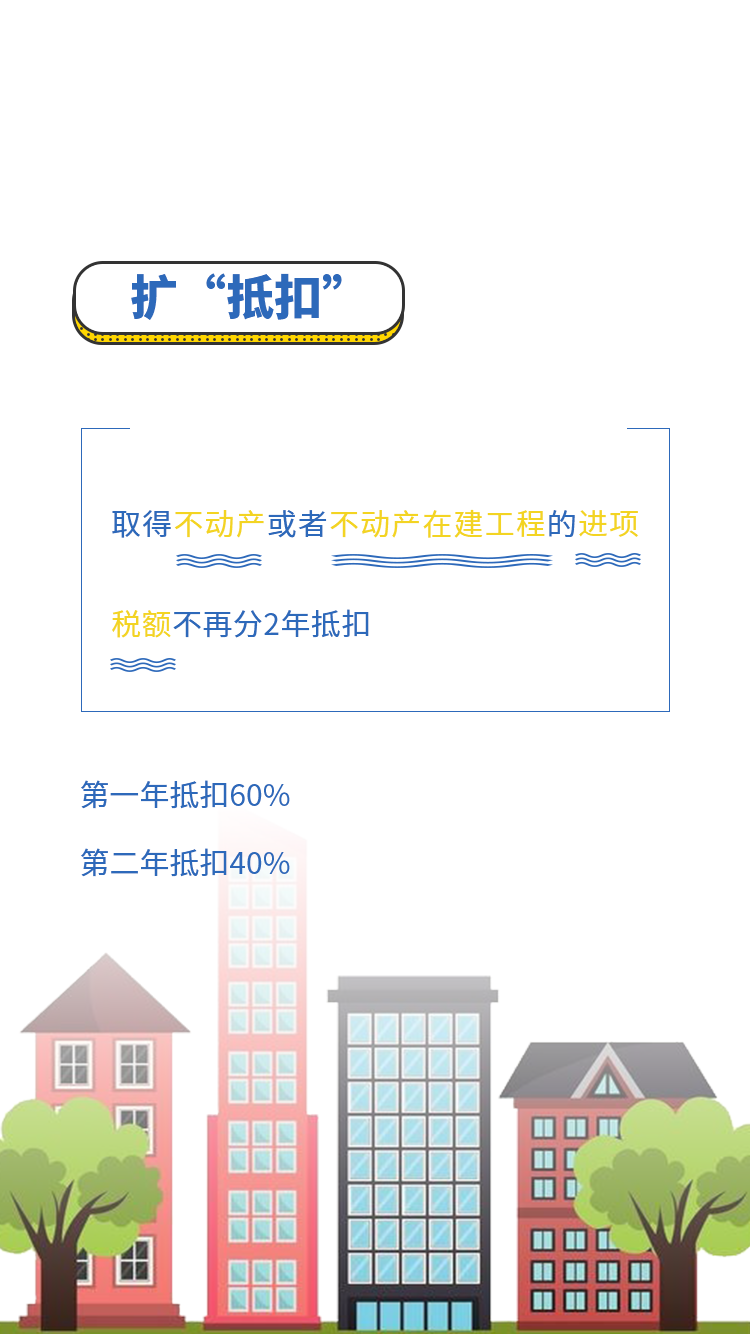
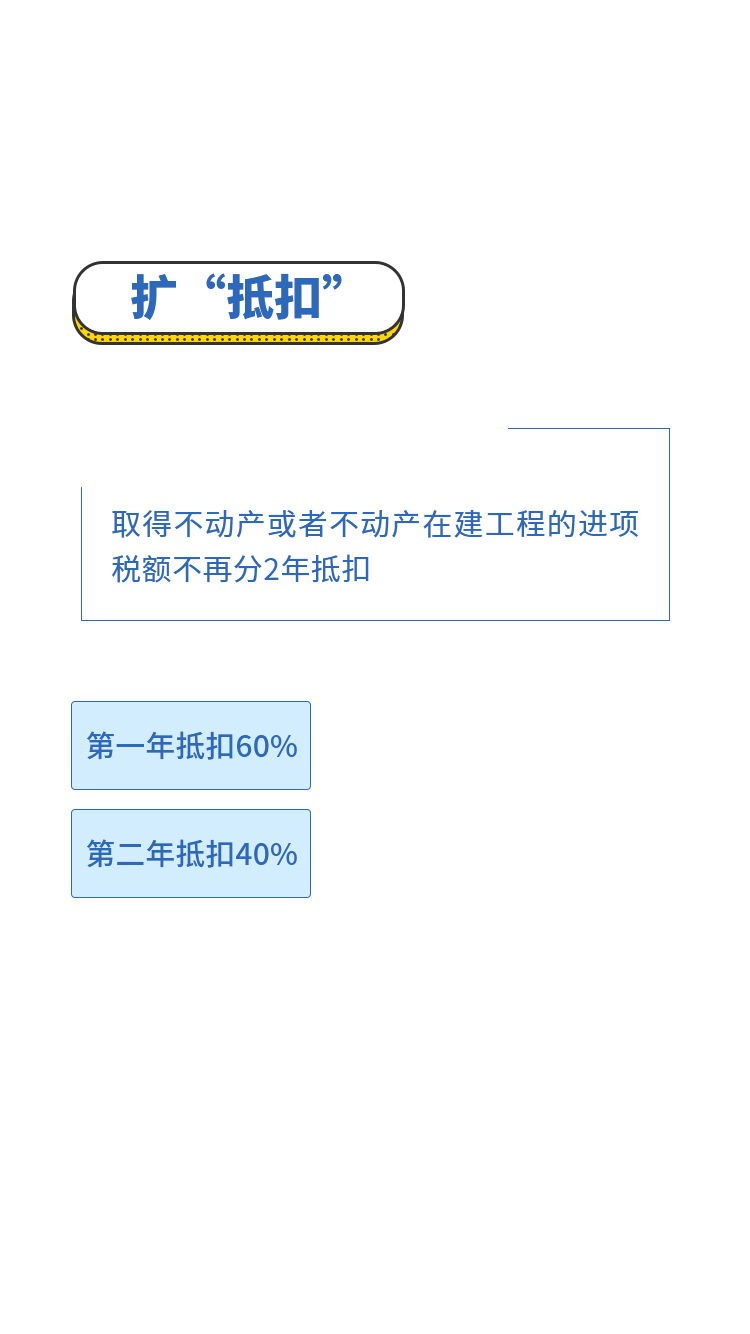
静态ok

Changed region(s): [[0.0, 0.3688, 1.0, 1.0], [0.7667, 0.3688, 0.8587, 0.4303]]

diff --git a/src/App.vue b/src/App.vue
@@ -31,9 +31,9 @@
         <section  class="MySlider2">
           <div class="bounce" style="height:100vh; display: flex;flex-direction: column;">
             <img src="./assets/TaxBureau/cutChart/b/backUp.png" width="100%"/>
-            <img src="./assets/TaxBureau/cutChart/b/icon1.png" width="4%" style="margin-left: 130px; margin-top: 160px"/>
-            <img src="./assets/TaxBureau/cutChart/b/icon2.png" width="4%" style="margin-left: 130px; margin-top: 55px"/>
-            <img src="./assets/TaxBureau/cutChart/b/icon3.png" width="4%" style="margin-left: 130px; margin-top: 55px"/>
+            <img src="./assets/TaxBureau/cutChart/b/icon1.png" width="4%" style="margin-left: 33%; margin-top: 44%"/>
+            <img src="./assets/TaxBureau/cutChart/b/icon2.png" width="4%" style="margin-left: 33%; margin-top: 13%"/>
+            <img src="./assets/TaxBureau/cutChart/b/icon3.png" width="4%" style="margin-left: 33%; margin-top: 15%"/>
             <img src="./assets/TaxBureau/cutChart/b/person.png" width="100vw" style="position: absolute; bottom: 0"/>
             <div style="flex:1;" >&nbsp;</div>
             <img src="./assets/TaxBureau/cutChart/b/backDown.png" width="100%" style="margin-bottom: 0px"/>
@@ -47,8 +47,8 @@
             <img src="./assets/TaxBureau/cutChart/c/backUp.png" width="100%"/>
             <img src="./assets/TaxBureau/cutChart/c/backBlue.png" width="40%" style="margin-left: 40px; margin-top: 74px"/>
             <div style="margin-top: -25px; margin-left: 91px; font-weight: bold; font-size: 15px; color: #2d69ba">降税率</div>
-            <img src="./assets/TaxBureau/cutChart/c/arrow.png" width="14.8%" style="margin-top: 123px; margin-left: 199px;"/>
-            <img src="./assets/TaxBureau/cutChart/c/arrow.png" width="14.8%" style="margin-top: 30px; margin-left: 199px;"/>
+            <img src="./assets/TaxBureau/cutChart/c/arrow.png" width="14.8%" style="margin-top: 32%; margin-left: 53%;"/>
+            <img src="./assets/TaxBureau/cutChart/c/arrow.png" width="14.8%" style="margin-top: 8%; margin-left: 53%;"/>
             <img src="./assets/TaxBureau/cutChart/c/backDown.png" width="75%" style="margin-top: 118px; margin-left: 94px;"/>
             <img src="./assets/TaxBureau/cutChart/c/person.png" width="21.07%" style="margin-top: -143px; margin-left: 257px;" />
           </div>
@@ -61,8 +61,8 @@
             <img src="./assets/TaxBureau/cutChart/d/backUp.png" width="100%"/>
             <img src="./assets/TaxBureau/cutChart/d/back_blue.png" width="40%" style="margin-left: 40px; margin-top: 74px"/>
             <div style="margin-top: -28px; margin-left: 85px; font-weight: bold; font-size: 15px; color: #2d69ba">降扣除税</div>
-            <img src="./assets/TaxBureau/cutChart/d/arrow.png" width="14.8%" style="margin-left: 200px; margin-top: 153px"/>
-            <img src="./assets/TaxBureau/cutChart/d/car.png" width="40.4%" style="margin-left: 124px; margin-top: 145px"/>
+            <img src="./assets/TaxBureau/cutChart/d/arrow.png" width="14.8%" style="margin-left: 53%; margin-top: 40%"/>
+            <img src="./assets/TaxBureau/cutChart/d/car.png" width="40.4%" style="margin-left: 33%; margin-top: 39%"/>
           </div>
         </section>
       </swiper-slide>
@@ -72,8 +72,8 @@
             <img src="./assets/TaxBureau/cutChart/e/backUp.png" width="100%"/>
             <img src="./assets/TaxBureau/cutChart/e/backBlue.png" width="56.4%" style="margin-left: 40px; margin-top: 74px"/>
             <div style="margin-top: -28px; margin-left: 85px; font-weight: bold; font-size: 15px; color: #2d69ba">同步调整出口退税率</div>
-            <img src="./assets/TaxBureau/cutChart/e/arrow.png"  width="14.8%" style="margin-left: 200px; margin-top: 170px"/>
-            <img src="./assets/TaxBureau/cutChart/e/arrow.png"  width="14.8%" style="margin-left: 200px; margin-top: 30px"/>
+            <img src="./assets/TaxBureau/cutChart/e/arrow.png"  width="14.8%" style="margin-left: 53%; margin-top: 45%"/>
+            <img src="./assets/TaxBureau/cutChart/e/arrow.png"  width="14.8%" style="margin-left: 53%; margin-top: 8%"/>
           </div>
         </section>
       </swiper-slide>
@@ -84,8 +84,8 @@
             <img src="./assets/TaxBureau/cutChart/f/backBlue.png" width="56.4%" style="margin-left: 40px; margin-top: 74px"/>
             <div style="margin-top: -28px; margin-left: 85px; font-weight: bold; font-size: 15px; color: #2d69ba">同步调整出口退税率</div>
             <img src="./assets/TaxBureau/cutChart/f/red.png" width="28.8%" style="margin-left: 1.5%; margin-top: 79.9%"/>
-            <img src="./assets/TaxBureau/cutChart/e/arrow.png"  width="14.8%" style="margin-left: 10%; margin-top: -30%"/>
-            <img src="./assets/TaxBureau/cutChart/e/arrow.png"  width="14.8%" style="margin-left: 200px; margin-top: 30px"/>
+            <img src="./assets/TaxBureau/cutChart/e/arrow.png"  width="14.8%" style="margin-left: 52%; margin-top: -83%"/>
+            <img src="./assets/TaxBureau/cutChart/e/arrow.png"  width="14.8%" style="margin-left: 52%; margin-top: 21%"/>
             <div style="flex: 1;">&nbsp;</div>
             <img src="./assets/TaxBureau/cutChart/f/backDown.png" width="100%" style="margin-bottom: 0"/>
           </div>
@@ -97,8 +97,8 @@
             <img src="./assets/TaxBureau/cutChart/g/backUp.png" width="100%"/>
             <img src="./assets/TaxBureau/cutChart/f/backBlue.png" width="68.67%" style="margin-left: 40px; margin-top: 70px"/>
             <div style="margin-top: -31px; margin-left: 69px; font-weight: bold; font-size: 15px; color: #2d69ba">同步调整离境退税物品退税率</div>
-            <img src="./assets/TaxBureau/cutChart/e/arrow.png" width="14.8%" style="margin-left: 197px; margin-top: 116px"/>
-            <img src="./assets/TaxBureau/cutChart/e/arrow.png" width="14.8%" style="margin-left: 197px; margin-top: 30px"/>
+            <img src="./assets/TaxBureau/cutChart/e/arrow.png" width="14.8%" style="margin-left: 53%; margin-top: 31%"/>
+            <img src="./assets/TaxBureau/cutChart/e/arrow.png" width="14.8%" style="margin-left: 53%; margin-top: 8%"/>
           </div>
         </section>
       </swiper-slide>
@@ -108,7 +108,7 @@
             <img src="./assets/TaxBureau/cutChart/h/backUp.png" width="100%"/>
             <img src="./assets/TaxBureau/cutChart/h/backBlue.png" width="50%" style="margin-left: 47px; margin-top: 74px"/>
             <div style="margin-top: -27px; margin-left: 75px; font-weight: bold; font-size: 15px; color: #2d69ba">扩大进项税抵扣范围</div>
-            <img src="./assets/TaxBureau/cutChart/h/car.png" width="46.4%" style="margin: 280px auto 0"/>
+            <img src="./assets/TaxBureau/cutChart/h/car.png" width="46.4%" style="margin: 76% auto 0"/>
           </div>
         </section>
       </swiper-slide>
@@ -116,9 +116,12 @@
         <section  class="MySlider9">
           <div style="display: flex;flex-direction: column;">
             <img src="./assets/TaxBureau/cutChart/i/backUp.png" width="100%"/>
-            <img src="./assets/TaxBureau/cutChart/i/backBlue.png" width="56.4%" style="margin-left: 81px; margin-top: 74px"/>
-            <div style="margin-top: -27px; margin-left: 104px; font-weight: bold; font-size: 15px; color: #2d69ba">允许不动产进项一次抵扣</div>
-            <img src="./assets/TaxBureau/cutChart/i/disposable.png" width="44.8%" style="margin-left: 168px; margin-top: 148px"/>
+            <img src="./assets/TaxBureau/cutChart/i/backBlue.png" width="56.4%" style="margin-left: 8%; margin-top: 20%"/>
+            <div style="margin-top: -7%; margin-left: 14%; font-weight: bold; font-size: 15px; color: #2d69ba">允许不动产进项一次抵扣</div>
+            <img src="./assets/TaxBureau/cutChart/i/change.png"  width="14.8%" style="margin-left: 45%; margin-top: 43%"/>
+            <img src="./assets/TaxBureau/cutChart/i/one.png" width="29.73%" style="margin-left: 63%; margin-top: -17%"/>
+            <div style="flex:1;" >&nbsp;</div>
+            <img src="./assets/TaxBureau/cutChart/i/backDown.png" width="100%" style="margin-bottom: 0px"/>
           </div>
         </section>
       </swiper-slide>
@@ -128,9 +131,9 @@
             <img src="./assets/TaxBureau/cutChart/j/backUp.png" width="100%"/>
             <img src="./assets/TaxBureau/cutChart/j/backBlue.png" width="38.93%" style="margin-top: 74px; margin-left: 77px"/>
             <div style="margin-top: -27px; margin-left: 105px; font-weight: bold; font-size: 15px; color: #2d69ba">实施加计抵减</div>
-            <img src="./assets/TaxBureau/cutChart/j/ride.png" width="8.13%" style="margin-left: 60px; margin-top: 190px"/>
-            <img src="./assets/TaxBureau/cutChart/j/provision.png" width="16.13%" style="margin-left: 130px; margin-top: -50px"/>
-            <img src="./assets/TaxBureau/cutChart/j/offset.png" width="43.33%" style="margin-left: 195px; margin-top: -50px"/>
+            <img src="./assets/TaxBureau/cutChart/j/ride.png" width="8.13%" style="margin-left: 16%; margin-top: 50%"/>
+            <img src="./assets/TaxBureau/cutChart/j/provision.png" width="16.13%" style="margin-left: 35%; margin-top: -15%"/>
+            <img src="./assets/TaxBureau/cutChart/j/offset.png" width="43.33%" style="margin-left: 53%; margin-top: -14%"/>
           </div>
         </section>
       </swiper-slide>
@@ -141,14 +144,14 @@
             <img src="./assets/TaxBureau/cutChart/k/button.png" width="44.53%" style="margin-left: 38px"/>
             <img src="./assets/TaxBureau/cutChart/k/cloud.png" width="82.13%" style="margin: 26px auto 0"/>
             <div style="margin: -27px auto; font-weight: bold; font-size: 15px; color: #2d69ba">所有行业试行增值税留抵退税制度</div>
-            <img src="./assets/TaxBureau/cutChart/k/rectangle.png" width="6.67%" style="margin-left: 153px; margin-top: 55px"/>
-            <div style="width: 20px; margin-top: -347px; margin-left: 158px; font-weight: bold; font-size: 15px; color: #fff">制度化</div>
-            <div style="width: 20px; margin-top: 10px; margin-left: 158px; font-weight: bold; font-size: 15px; color: #fff">规范化</div>
-            <img src="./assets/TaxBureau/cutChart/k/arrow_left.png" width="9.33%" style="margin-top: -24px; margin-left: 118px"/>
-            <img src="./assets/TaxBureau/cutChart/k/arrow_right.png" width="12.53%" style="margin-top: -83px; margin-left: 178px"/>
-            <img src="./assets/TaxBureau/cutChart/k/part.png" width="34.4%" style="margin-top: 15px; margin-left: 10px"/>
-            <img src="./assets/TaxBureau/cutChart/k/all.png" width="43.06%" style="margin-top: -260px; margin-left: 185px"/>
-            <img src="./assets/TaxBureau/cutChart/k/backDown.png" width="100%" />
+            <img src="./assets/TaxBureau/cutChart/k/rectangle.png" width="6.67%" style="margin-left: 40%; margin-top: 14%"/>
+            <div style="width: 20px; margin-top: -90%; margin-left: 41.5%; font-weight: bold; font-size: 15px; color: #fff">制度化</div>
+            <div style="width: 20px; margin-top: 10px; margin-left: 41.5%; font-weight: bold; font-size: 15px; color: #fff">规范化</div>
+            <img src="./assets/TaxBureau/cutChart/k/arrow_left.png" width="9.47%" style="margin-top: -6%; margin-left: 30.7%"/>
+            <img src="./assets/TaxBureau/cutChart/k/arrow_right.png" width="12.53%" style="margin-top: -22%; margin-left: 45.8%"/>
+            <img src="./assets/TaxBureau/cutChart/k/part.png" width="34.4%" style="margin-top: 4%; margin-left: 1.5%"/>
+            <img src="./assets/TaxBureau/cutChart/k/all.png" width="43.06%" style="margin-top: -70%; margin-left: 48%"/>
+            <img src="./assets/TaxBureau/cutChart/k/backDown.png" width="100%" style="margin-top: -8%"/>
           </div>
         </section>
       </swiper-slide>
@@ -169,6 +172,7 @@
 <script>
 import {swiper, swiperSlide} from 'vue-awesome-swiper'
 // import wx from 'index.html'
+import sup from './assets/TaxBureau/cutChart/a/bulb.png'
 // import one from 'components/TaxBureau/One'
 // import two from 'components/TaxBureau/Two'
 // import three from 'components/TaxBureau/Three'
@@ -208,7 +212,7 @@ export default {
 
         direction: 'vertical',
         followFinger: false,
-        speed: 0,  //停多久开始显示800
+        speed: 0, // 停多久开始显示800
         mousewheel: true,
         pagination: {
           el: '.swiper-pagination'
@@ -241,25 +245,26 @@ export default {
   mounted () {
     console.log(this.swiper + '杨丽宾')
 
-    // wx.config({
-    //   debug: true, // 开启调试模式,调用的所有api的返回值会在客户端alert出来，若要查看传入的参数，可以在pc端打开，参数信息会通过log打出，仅在pc端时才会打印。
-    //   appId: '', // 必填，公众号的唯一标识
-    //   timestamp: 'now', // 必填，生成签名的时间戳
-    //   nonceStr: 'lli', // 必填，生成签名的随机串
-    //   signature: 'yangg', // 必填，签名
-    //   jsApiList: [] // 必填，需要使用的JS接口列表
-    // })
-    // wx.ready(function () {      //需在用户可能点击分享按钮前就先调用
-    //   wx.updateTimelineShareData({
-    //     title: '增值税改革亮点', // 分享标题
-    //     link: 'http://busih5.dayu1.net', // 分享链接，该链接域名或路径必须与当前页面对应的公众号JS安全域名一致
-    //     imgUrl: './assets/TaxBureau/cutChart/a/bulb.png', // 分享图标
-    //     success: function () {
-    //       // 设置成功
-    //       console.log(this.link)
-    //     }
-    //   })
-    // })
+    wx.config({
+      debug: true, // 开启调试模式,调用的所有api的返回值会在客户端alert出来，若要查看传入的参数，可以在pc端打开，参数信息会通过log打出，仅在pc端时才会打印。
+      appId: 'wx7e14b4c8e816eeaa', // 必填，公众号的唯一标识
+      timestamp: Date.now(), // 必填，生成签名的时间戳
+      nonceStr: 'lli', // 必填，生成签名的随机串
+      signature: 'yangg', // 必填，签名
+      jsApiList: ['onMenuShareTimeline',
+        'onMenuShareAppMessage', 'updateTimelineShareData'] // 必填，需要使用的JS接口列表
+    })
+    wx.ready(function () { // 需在用户可能点击分享按钮前就先调用
+      wx.updateTimelineShareData({
+        title: '增值税改革亮点', // 分享标题
+        link: 'http://busih5.dayu1.net', // 分享链接，该链接域名或路径必须与当前页面对应的公众号JS安全域名一致
+        imgUrl: sup, // 分享图标
+        success: function () {
+          // 设置成功
+          console.log(this.link)
+        }
+      })
+    })
 
     // this.swiper.slideTo(1, 1000, false)
   },
@@ -335,6 +340,7 @@ export default {
   background-size: 100%;
 }
 .MySlider9{
+  display: flex;
   height: 100vh;
   background-image: url("assets/TaxBureau/cutChart/i/back_words.png");
   background-size: 100%;
